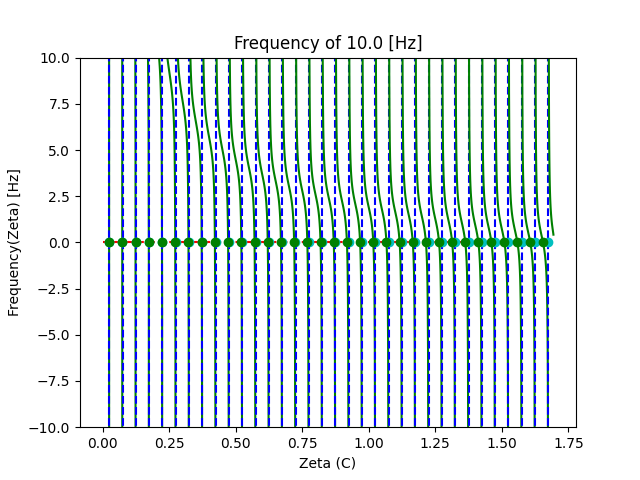
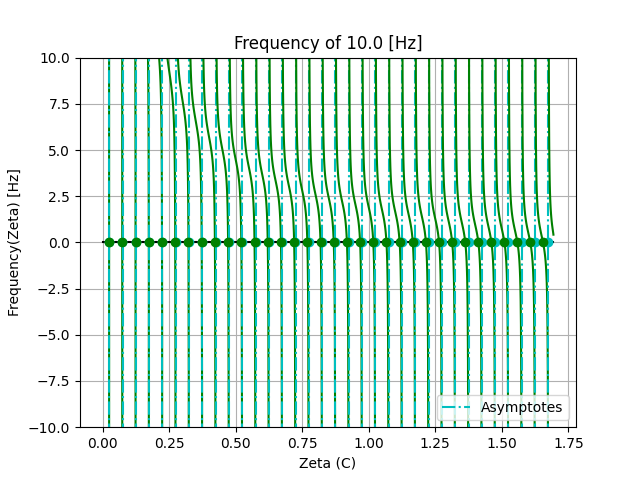
Changes to figures

Changed region(s): [[0.1562, 0.125, 0.875, 0.9062]]

diff --git a/examples/driver.py b/examples/driver.py
@@ -56,7 +56,7 @@ def main():
         # Create the figure
         plt.figure()
         # Create line on the x = 0 axis
-        plt.plot([0, C_max], [0,0], '--r')
+        plt.plot([0, C_max], [0,0], '-k')
 
         # Mode count starting at 0
         k = 0
@@ -83,7 +83,7 @@ def main():
             # Plotting function to find the root
             plt.plot(z_range, function(z_range), '-g')
             # Plotting asymptotes
-            plt.plot([z_max + 1e-4, z_max + 1e-4], [-50, 50], '--b')
+            plt.plot([z_max + 1e-4, z_max + 1e-4], [-50, 50], '-.c')
             plt.plot(x0, 0.0, 'co')
             # Calculating root using modified secant method
             roots, iterations, error = root_newton_raphson(x0, function, derivative)
@@ -113,10 +113,13 @@ def main():
             plt.plot(roots, function(roots), 'go')
 
         # Plotting the frequency vs zeta for a given frequency
+            # Helps us undertsand what is going on with the different frequencies
         z_max = C_max - 1e-4
         z_range = np.linspace(z0, z_max)
         plt.plot(z_range, function(z_range), '-g')
         plt.ylim((-10,10))
+        plt.grid()
+        plt.legend(['_nolegend_', '_nolegend_','Asymptotes'])
         plt.xlabel('Zeta (C)')
         plt.ylabel("Frequency(Zeta) [Hz]")
         plt.title(f"Frequency of {f} [Hz]")
